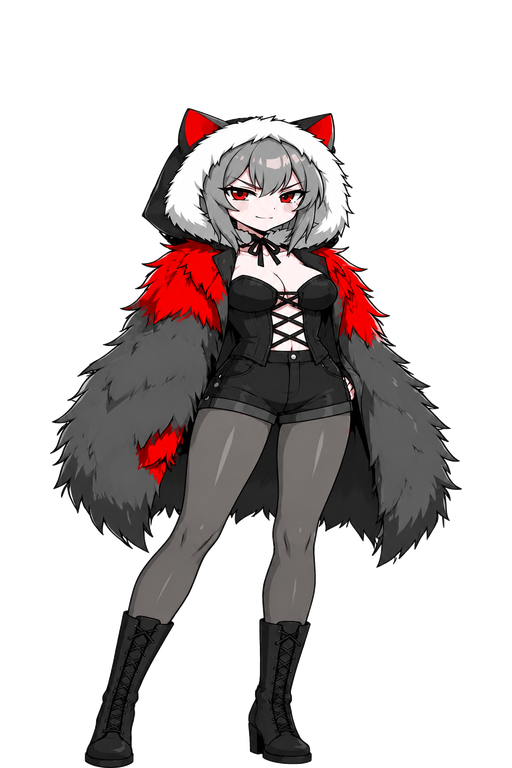
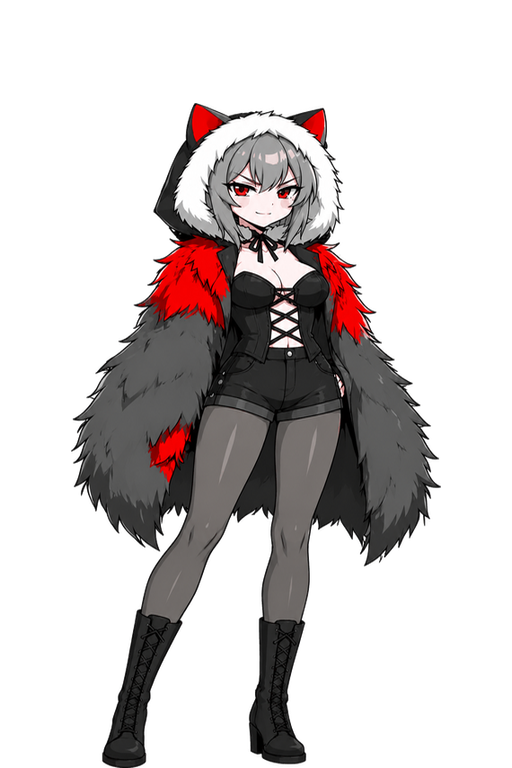
feel: 移速x1.5/冲刺0.2s无敌/体力回复x1.5/魔姬攻击间隔放宽/立绘竖直拉长12%后整体等比x0.9

Changed region(s): [[0.0938, 0.125, 0.9062, 1.0], [0.5938, 0.9688, 0.625, 1.0], [0.4688, 0.9375, 0.5, 0.9688]]

diff --git a/tools/patch_feel_and_portrait.py b/tools/patch_feel_and_portrait.py
@@ -1,0 +1,61 @@
+# -*- coding: utf-8 -*-
+"""手感调整：
+1) 左右移速 ×1.5（340 → 510）
+2) 冲刺后 0.2 秒无敌（12 帧，取最大不覆盖原有无敌）
+3) 体力回复 ×1.5（52 → 78）
+4) 魔姬攻击频率降低（间隔拉长、连发减少）
+5) 魔姬立绘：竖直拉长 12% 再整体等比缩小到 0.9
+"""
+import glob
+import io
+
+import numpy as np
+from PIL import Image
+
+p = 'godot/main.gd'
+s = io.open(p, encoding='utf-8').read()
+orig = s
+
+# 1) 移速 ×1.5
+s = s.replace('var target_speed := axis * 340.0', 'var target_speed := axis * 510.0   # 用户要求：左右移速 ×1.5', 1)
+
+# 2) 冲刺无敌 0.2s（12 帧）——取与现有无敌帧的最大值，不缩短
+s = s.replace('player_dash_invuln = DASH_FRAMES + 4  # Dash invuln: 24 frames (20 dash + 4 extra, from Web規格)',
+              'player_dash_invuln = maxi(DASH_FRAMES + 4, 12)  # 冲刺无敌：至少 0.2 秒（12 帧）', 1)
+
+# 3) 体力回复 ×1.5
+s = s.replace('player_stamina = minf(100.0, player_stamina + 52.0 * FIXED_DT)',
+              'player_stamina = minf(100.0, player_stamina + 78.0 * FIXED_DT)   # 体力回复 ×1.5', 1)
+
+# 4) 魔姬攻击频率降低
+s = s.replace('\t\t\tif frame % 10 == 0:\n\t\t\t\tfor k in range(2):', '\t\t\tif frame % 18 == 0:\n\t\t\t\tfor k in range(2):', 1)
+s = s.replace('\t\t\tif frame % 90 == 0:\n\t\t\t\tfor k in range(10):', '\t\t\tif frame % 150 == 0:\n\t\t\t\tfor k in range(8):', 1)
+s = s.replace('\t\t\tif frame % 6 == 0:\n\t\t\t\tfor k in range(2):\n\t\t\t\t\tvar a5 :=', '\t\t\tif frame % 12 == 0:\n\t\t\t\tfor k in range(2):\n\t\t\t\t\tvar a5 :=', 1)
+s = s.replace('\t\tif frame % 6 == 0:\n\t\t\tvar d := (player_pos - boss_pos).normalized()\n\t\t\t_spawn_bullet(boss_pos + d * 30.0, d * 620.0, RED, "crescent", 2.2, 0.0)',
+              '\t\tif frame % 14 == 0:\n\t\t\tvar d := (player_pos - boss_pos).normalized()\n\t\t\t_spawn_bullet(boss_pos + d * 30.0, d * 620.0, RED, "crescent", 2.2, 0.0)', 1)
+s = s.replace('\t\t\tif frame % 8 == 0:\n\t\t\t\tvar rx := 150.0 + randf() * 2100.0', '\t\t\tif frame % 20 == 0:\n\t\t\t\tvar rx := 150.0 + randf() * 2100.0', 1)
+# 追击斩间隔放宽
+s = s.replace('boss_skill_timer = 22\n\t\tboss_rush_side', 'boss_skill_timer = 30\n\t\tboss_rush_side', 1)
+
+io.open(p, 'w', encoding='utf-8').write(s)
+print('godot patched' if s != orig else 'NO CHANGE')
+
+# 5) 魔姬立绘：竖直拉长 12% → 整体等比 ×0.9
+for f in glob.glob('art/portrait/crimson_*.png'):
+    if '_old' in f or '_chibi' in f:
+        continue
+    im = Image.open(f).convert('RGBA')
+    bb = im.getbbox()
+    if bb:
+        im = im.crop(bb)
+    stretched = im.resize((im.width, int(round(im.height * 1.12))), Image.LANCZOS)
+    scaled = stretched.resize((max(1, int(stretched.width * 0.9)), max(1, int(stretched.height * 0.9))), Image.LANCZOS)
+    canvas = Image.new('RGBA', (512, 768), (0, 0, 0, 0))
+    if scaled.width <= 512 and scaled.height <= 768:
+        canvas.alpha_composite(scaled, ((512 - scaled.width) // 2, 768 - scaled.height))
+    else:
+        ratio = min(512.0 / scaled.width, 768.0 / scaled.height)
+        scaled = scaled.resize((int(scaled.width * ratio), int(scaled.height * ratio)), Image.LANCZOS)
+        canvas.alpha_composite(scaled, ((512 - scaled.width) // 2, 768 - scaled.height))
+    canvas.save(f)
+    print('portrait adjusted:', f, canvas.size)
